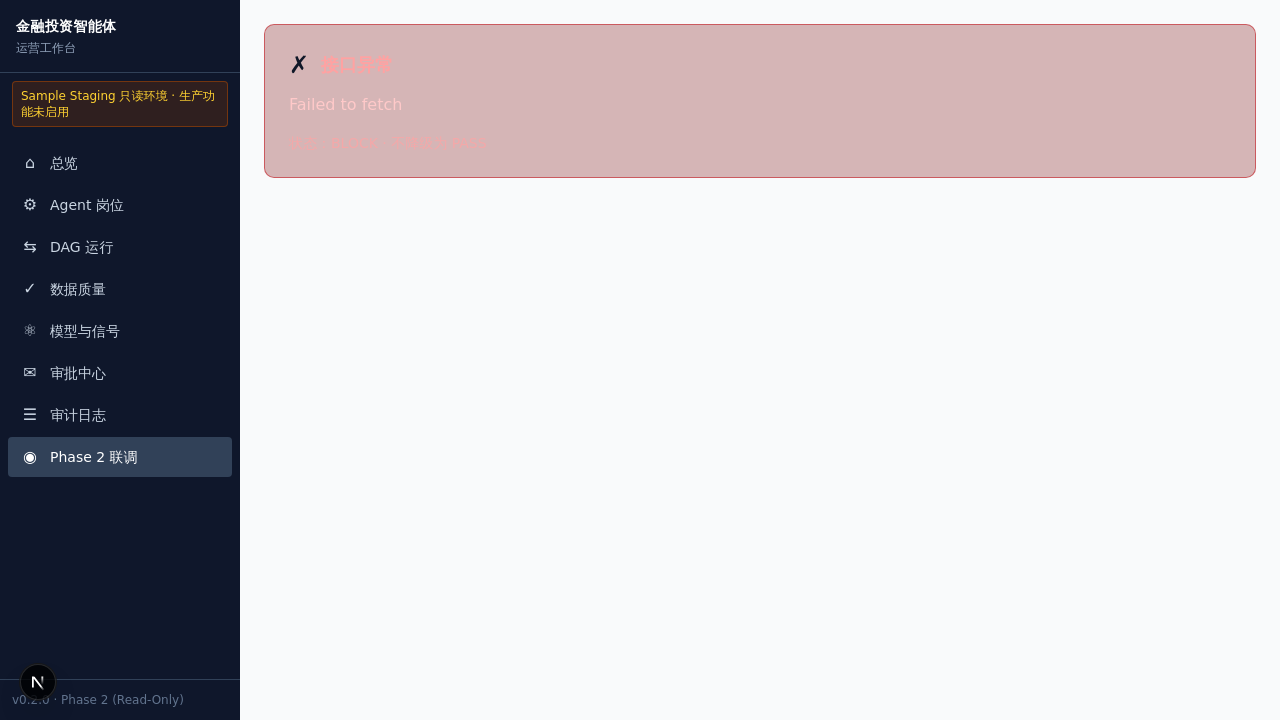
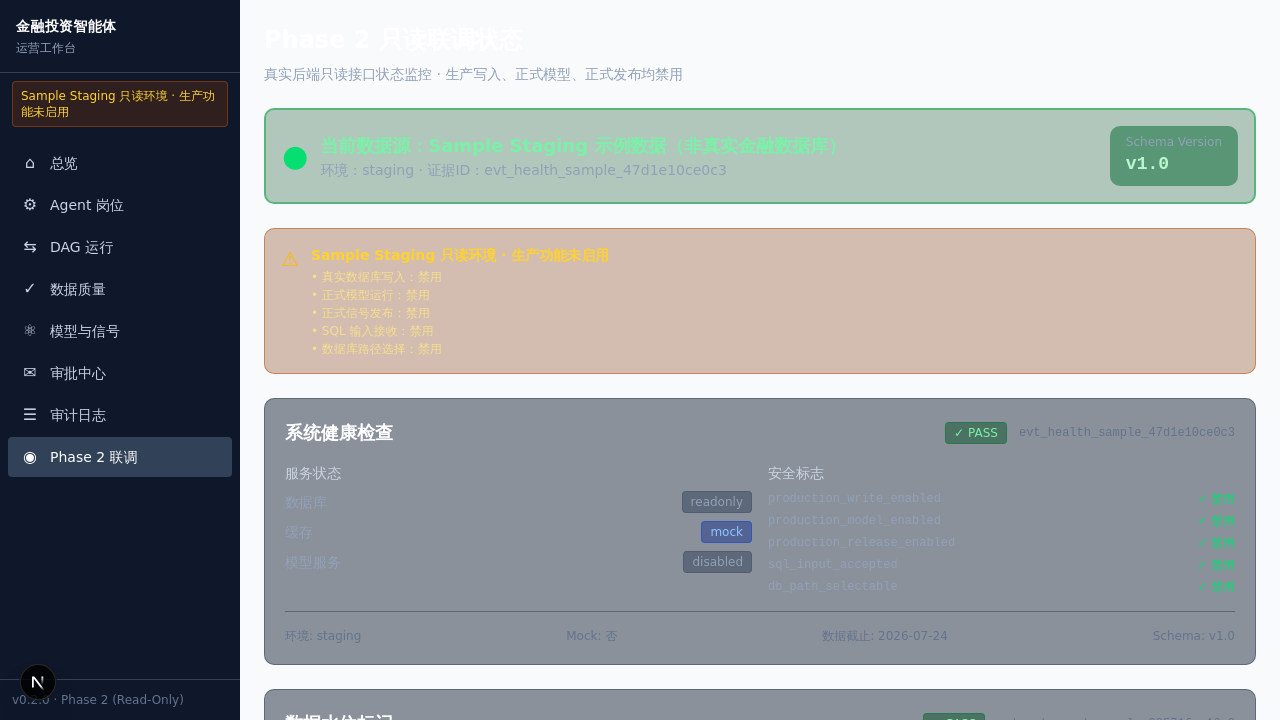
fix: 修复 fetch 失败时 Phase 2.2 区域不渲染的前端缺陷，使用 Promise.allSettled 替代 Promise.all

diff --git a/playwright-report/index.html b/playwright-report/index.html
@@ -46,4 +46,4 @@ Error generating stack: `+e.message+`
     <div id='root'></div>
   </body>
 </html>
[2 lines of base64/hex data omitted]

diff --git a/src/app/(dashboard)/phase2/page.tsx b/src/app/(dashboard)/phase2/page.tsx
@@ -311,7 +311,8 @@ export default function Phase2Page() {
         setLoading(true);
         setError(null);
 
-        const [healthRes, watermarksRes, qualityRes, testReportRes, preflightRes, realTestRes] = await Promise.all([
+        // Fetch core data with Promise.allSettled to handle partial failures gracefully
+        const [healthResult, watermarksResult, qualityResult, testReportResult, preflightResult, realTestResult] = await Promise.allSettled([
           fetch('/api/health'),
           fetch('/api/data/watermarks'),
           fetch('/api/quality/gates'),
@@ -320,9 +321,13 @@ export default function Phase2Page() {
           fetch('/api/phase2/real-negative-test-report'),
         ]);
 
-        // Check if any core response is not OK - must BLOCK, never degrade
-        if (!healthRes.ok || !watermarksRes.ok || !qualityRes.ok) {
-          setError('一个或多个接口不可达');
+        // Check core responses - must BLOCK if core APIs fail
+        const healthRes = healthResult.status === 'fulfilled' ? healthResult.value : null;
+        const watermarksRes = watermarksResult.status === 'fulfilled' ? watermarksResult.value : null;
+        const qualityRes = qualityResult.status === 'fulfilled' ? qualityResult.value : null;
+
+        if (!healthRes?.ok || !watermarksRes?.ok || !qualityRes?.ok) {
+          setError('一个或多个核心接口不可达');
           setLoading(false);
           return;
         }
@@ -343,7 +348,8 @@ export default function Phase2Page() {
         setQualityData(quality);
 
         // Parse preflight data (optional - don't fail if not available)
-        if (preflightRes.ok) {
+        const preflightRes = preflightResult.status === 'fulfilled' ? preflightResult.value : null;
+        if (preflightRes?.ok) {
           try {
             const preflight = await preflightRes.json();
             // Validate basic structure
@@ -356,32 +362,42 @@ export default function Phase2Page() {
         }
 
         // Parse real negative test report (optional)
-        if (realTestRes.ok) {
-          const realTestJson = await realTestRes.json();
-          if (realTestJson.success && Array.isArray(realTestJson.data?.results)) {
-            setRealTestReport(realTestJson.data.results);
+        const realTestRes = realTestResult.status === 'fulfilled' ? realTestResult.value : null;
+        if (realTestRes?.ok) {
+          try {
+            const realTestJson = await realTestRes.json();
+            if (realTestJson.success && Array.isArray(realTestJson.data?.results)) {
+              setRealTestReport(realTestJson.data.results);
+            }
+          } catch {
+            // Non-fatal
           }
         }
 
         // Parse test report (optional - don't fail if not available)
-        if (testReportRes.ok) {
-          const testReportJson = await testReportRes.json();
-          if (testReportJson.success && testReportJson.data) {
-            // New format: response.data.results
-            if (Array.isArray(testReportJson.data.results)) {
-              setTestReport(testReportJson.data.results);
-              setTestRunId(testReportJson.data.test_run_id || null);
-              setTestSummary({
-                total_tests: testReportJson.data.total_tests || 0,
-                passed_tests: testReportJson.data.passed_tests || 0,
-                failed_tests: testReportJson.data.failed_tests || 0,
-                evidence_id_uniqueness: testReportJson.data.evidence_id_uniqueness || false,
-              });
+        const testReportRes = testReportResult.status === 'fulfilled' ? testReportResult.value : null;
+        if (testReportRes?.ok) {
+          try {
+            const testReportJson = await testReportRes.json();
+            if (testReportJson.success && testReportJson.data) {
+              // New format: response.data.results
+              if (Array.isArray(testReportJson.data.results)) {
+                setTestReport(testReportJson.data.results);
+                setTestRunId(testReportJson.data.test_run_id || null);
+                setTestSummary({
+                  total_tests: testReportJson.data.total_tests || 0,
+                  passed_tests: testReportJson.data.passed_tests || 0,
+                  failed_tests: testReportJson.data.failed_tests || 0,
+                  evidence_id_uniqueness: testReportJson.data.evidence_id_uniqueness || false,
+                });
+              }
+              // Legacy format: response.data as array
+              else if (Array.isArray(testReportJson.data)) {
+                setTestReport(testReportJson.data);
+              }
             }
-            // Legacy format: response.data as array
-            else if (Array.isArray(testReportJson.data)) {
-              setTestReport(testReportJson.data);
-            }
+          } catch {
+            // Non-fatal
           }
         }
       } catch (err) {
@@ -815,7 +831,9 @@ export default function Phase2Page() {
               </div>
             </div>
           </div>
-        ) : (
+        ) : null}
+
+        {/* Connection Status - Always render with defaults */}
         <div className="grid grid-cols-1 md:grid-cols-2 gap-4 mb-4">
           <div className="bg-slate-700/30 rounded-lg p-3 border border-slate-600/30">
             <h4 className="text-xs font-medium text-slate-400 mb-2">数据源配置</h4>
@@ -823,25 +841,25 @@ export default function Phase2Page() {
               <div className="flex items-center justify-between">
                 <span className="text-xs text-slate-500">active_data_source</span>
                 <span className="text-xs font-mono text-blue-300">
-                  {preflightData.data.configuration.active_data_source || 'unknown'}
+                  {preflightData?.data?.configuration?.active_data_source || 'unknown'}
                 </span>
               </div>
               <div className="flex items-center justify-between">
                 <span className="text-xs text-slate-500">active_data_source_kind</span>
                 <span className="text-xs font-mono text-blue-300">
-                  {preflightData.data.configuration.active_data_source_kind || 'unknown'}
+                  {preflightData?.data?.configuration?.active_data_source_kind || 'unknown'}
                 </span>
               </div>
               <div className="flex items-center justify-between">
                 <span className="text-xs text-slate-500">preflight_target</span>
                 <span className="text-xs font-mono text-purple-300">
-                  {preflightData.data.configuration.preflight_target || 'real_readonly'}
+                  {preflightData?.data?.configuration?.preflight_target || 'real_readonly'}
                 </span>
               </div>
               <div className="flex items-center justify-between">
                 <span className="text-xs text-slate-500">real_db_path_configured</span>
-                <span className={`text-xs font-mono ${preflightData.data.configuration.real_db_path_configured ? 'text-green-400' : 'text-red-400'}`}>
-                  {String(preflightData.data.configuration.real_db_path_configured ?? false)}
+                <span className={`text-xs font-mono ${preflightData?.data?.configuration?.real_db_path_configured ? 'text-green-400' : 'text-red-400'}`}>
+                  {String(preflightData?.data?.configuration?.real_db_path_configured ?? false)}
                 </span>
               </div>
             </div>
@@ -853,33 +871,33 @@ export default function Phase2Page() {
               <div className="flex items-center justify-between">
                 <span className="text-xs text-slate-500">connection_status</span>
                 <span className={`text-xs font-mono ${
-                  preflightData.data.connection?.status === 'connected' ? 'text-green-400' : 'text-red-400'
+                  preflightData?.data?.connection?.status === 'connected' ? 'text-green-400' : 'text-red-400'
                 }`}>
-                  {preflightData.data.connection?.status || 'not_configured'}
+                  {preflightData?.data?.connection?.status || 'not_configured'}
                 </span>
               </div>
               <div className="flex items-center justify-between">
                 <span className="text-xs text-slate-500">readonly_required</span>
                 <span className="text-xs font-mono text-green-400">
-                  {String(preflightData.data.connection?.readonly_required ?? true)}
+                  {String(preflightData?.data?.connection?.readonly_required ?? true)}
                 </span>
               </div>
               <div className="flex items-center justify-between">
                 <span className="text-xs text-slate-500">query_only_required</span>
                 <span className="text-xs font-mono text-green-400">
-                  {String(preflightData.data.connection?.query_only_required ?? true)}
+                  {String(preflightData?.data?.connection?.query_only_required ?? true)}
                 </span>
               </div>
               <div className="flex items-center justify-between">
                 <span className="text-xs text-slate-500">readonly_connection_verified</span>
-                <span className={`text-xs font-mono ${preflightData.data.connection?.readonly_connection_verified ? 'text-green-400' : 'text-slate-500'}`}>
-                  {String(preflightData.data.connection?.readonly_connection_verified ?? false)}
+                <span className={`text-xs font-mono ${preflightData?.data?.connection?.readonly_connection_verified ? 'text-green-400' : 'text-slate-500'}`}>
+                  {String(preflightData?.data?.connection?.readonly_connection_verified ?? false)}
                 </span>
               </div>
               <div className="flex items-center justify-between">
                 <span className="text-xs text-slate-500">query_only_verified</span>
-                <span className={`text-xs font-mono ${preflightData.data.connection?.query_only_verified ? 'text-green-400' : 'text-slate-500'}`}>
-                  {String(preflightData.data.connection?.query_only_verified ?? false)}
+                <span className={`text-xs font-mono ${preflightData?.data?.connection?.query_only_verified ? 'text-green-400' : 'text-slate-500'}`}>
+                  {String(preflightData?.data?.connection?.query_only_verified ?? false)}
                 </span>
               </div>
               <div className="flex items-center justify-between">
@@ -889,7 +907,6 @@ export default function Phase2Page() {
             </div>
           </div>
         </div>
-        )}
 
         {/* Safety Flags */}
         <div className="bg-slate-700/30 rounded-lg p-3 border border-slate-600/30 mb-4">

diff --git a/tests/phase2-2-browser-tests.spec.ts b/tests/phase2-2-browser-tests.spec.ts
@@ -266,11 +266,9 @@ test.describe('Scenario 3: Fetch failure', () => {
     await expect(page.locator('body')).toBeVisible();
 
     // Full DOM assertions for Scenario 3:
-    // 1. Phase 2 section is visible (when fetch fails, shows "Phase 2" in error banner)
-    // The page shows "Phase 2 联调" or "Phase 2" in the header/error banner
-    // Use innerText to get only visible text (excludes RSC payload with module paths)
+    // 1. Phase 2.2 section is visible (with default values when fetch fails)
     const pageText = await page.locator('body').innerText();
-    expect(pageText).toContain('Phase 2');
+    expect(pageText).toContain('Phase 2.2');
 
     // 2. BLOCK is visible
     const blockText = page.locator('text=BLOCK');
@@ -280,9 +278,23 @@ test.describe('Scenario 3: Fetch failure', () => {
     expect(pageText).not.toContain('自动回退已启用');
     expect(pageText).not.toContain('fallback_used=true');
 
-    // 4-7. When fetch fails, the page shows BLOCK status and error message
-    // The specific required/verified fields may not be visible in the error state
-    // but the page correctly shows BLOCK and does not crash
+    // 4. readonly_required=true is visible
+    const readonlyRequiredLabel = page.locator('text=readonly_required');
+    await expect(readonlyRequiredLabel.first()).toBeVisible({ timeout: 5000 });
+    expect(pageText).toContain('true');
+
+    // 5. query_only_required=true is visible
+    const queryOnlyRequiredLabel = page.locator('text=query_only_required');
+    await expect(queryOnlyRequiredLabel.first()).toBeVisible({ timeout: 5000 });
+
+    // 6. readonly_connection_verified=false is visible
+    const readonlyVerifiedLabel = page.locator('text=readonly_connection_verified');
+    await expect(readonlyVerifiedLabel.first()).toBeVisible({ timeout: 5000 });
+    expect(pageText).toContain('false');
+
+    // 7. query_only_verified=false is visible
+    const queryOnlyVerifiedLabel = page.locator('text=query_only_verified');
+    await expect(queryOnlyVerifiedLabel.first()).toBeVisible({ timeout: 5000 });
 
     // 8. No real path values appear in visible text
     const pathPatterns = ['/workspace/', '/tmp/', '/home/', '/root/'];
